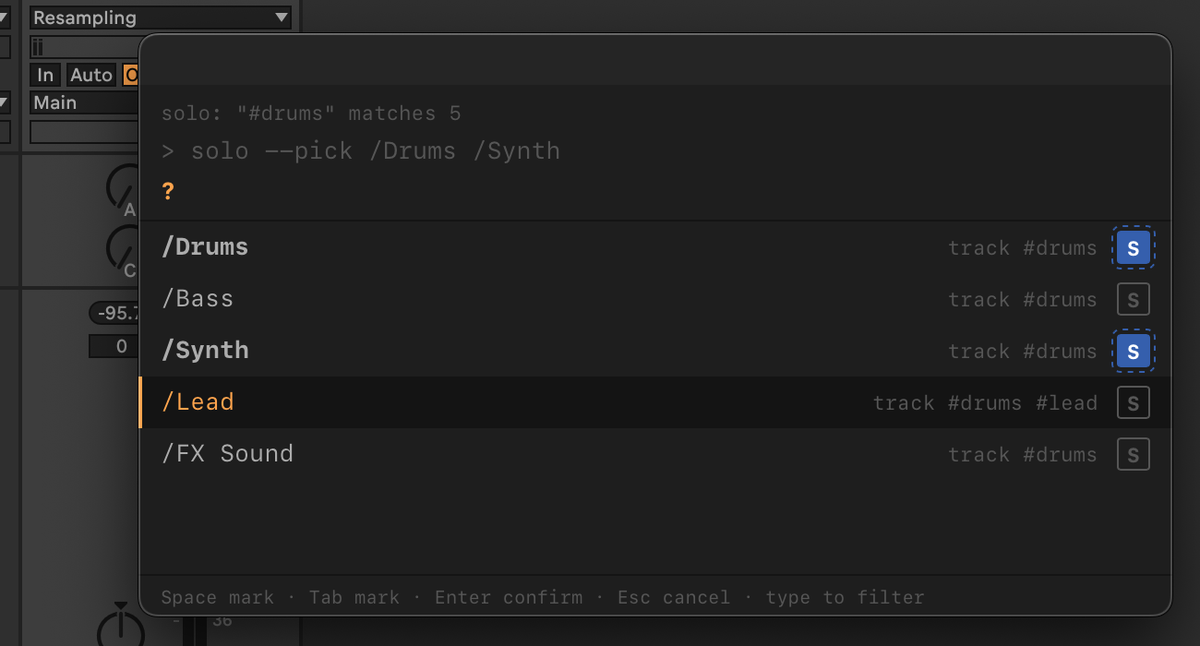
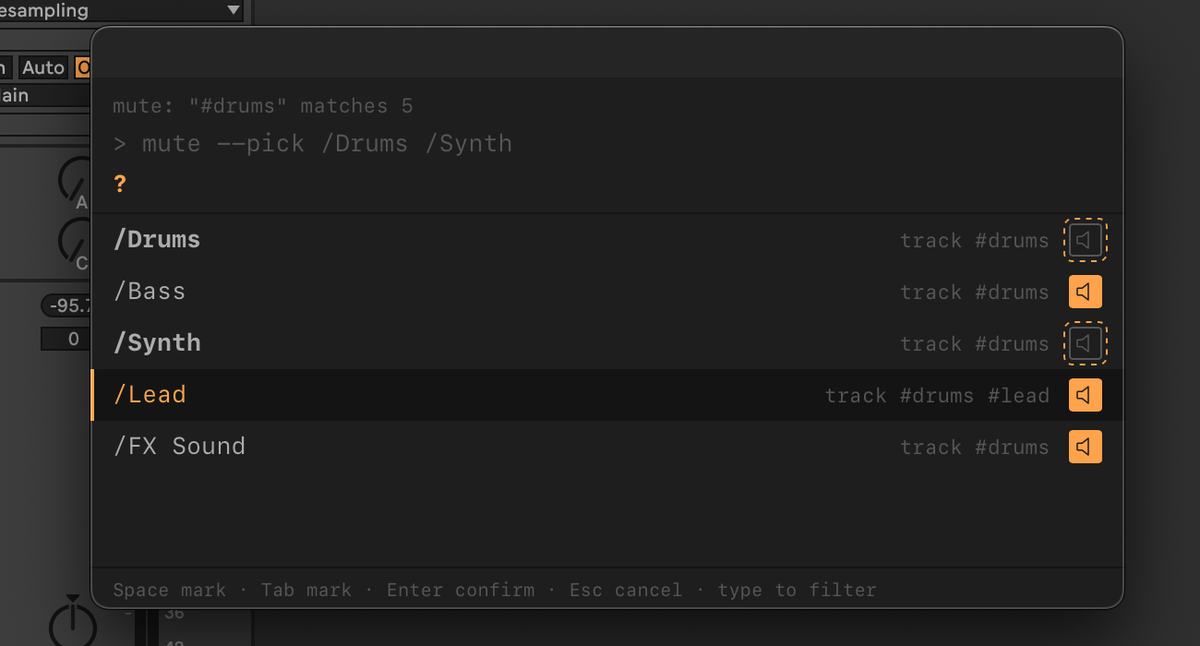
docs: pick list screenshot is the mute --pick #drums list

Changed region(s): [[0.0, 0.0, 0.9558, 1.0], [0.7092, 0.3406, 0.9867, 0.743]]

diff --git a/docs/getting-started.md b/docs/getting-started.md
@@ -103,7 +103,7 @@ When a name matches more than one object, cmdAbl shows a **pick list** instead o
 filter, press `↑` and `↓` to move, `Enter` to choose and `Esc` to cancel. Commands that take several
 tracks, such as `mute`, let you mark more than one row with `Tab`.
 
-![The pick list for solo --pick, with five tracks: Drums, Bass, Synth, Lead and FX Sound, each with its tags; the Drums and Synth solo buttons are marked with a dashed ring](assets/images/pick-list.png)
+![The pick list for mute --pick #drums, with five tracks: Drums, Bass, Synth, Lead and FX Sound, each with its tags; the speaker buttons of Drums and Synth are marked with a dashed ring](assets/images/pick-list.png)
 
 *A name that matches several tracks opens the pick list. The line above the filter shows the command that Enter will run, and the buttons show the state that Enter would set.*
 

diff --git a/README.md b/README.md
@@ -46,7 +46,7 @@ with `Tab`. Each row shows its state in Live's colours, a speaker for mute, `S` 
 and marked rows are highlighted. A dashed ring marks each button that Enter would change, and Live does not change
 until you press Enter.
 
-![The pick list for solo --pick #drums: five tracks tagged drums; the solo buttons of Drums and Synth are marked with a dashed ring, and the cursor is on Lead](docs/assets/images/pick-list.png)
+![The pick list for mute --pick #drums: five tracks tagged drums; the speaker buttons of Drums and Synth are marked with a dashed ring, because Enter mutes them, and the cursor is on Lead](docs/assets/images/pick-list.png)
 
 <!-- GIF to come: docs/assets/images/pakabl.gif -->
 
